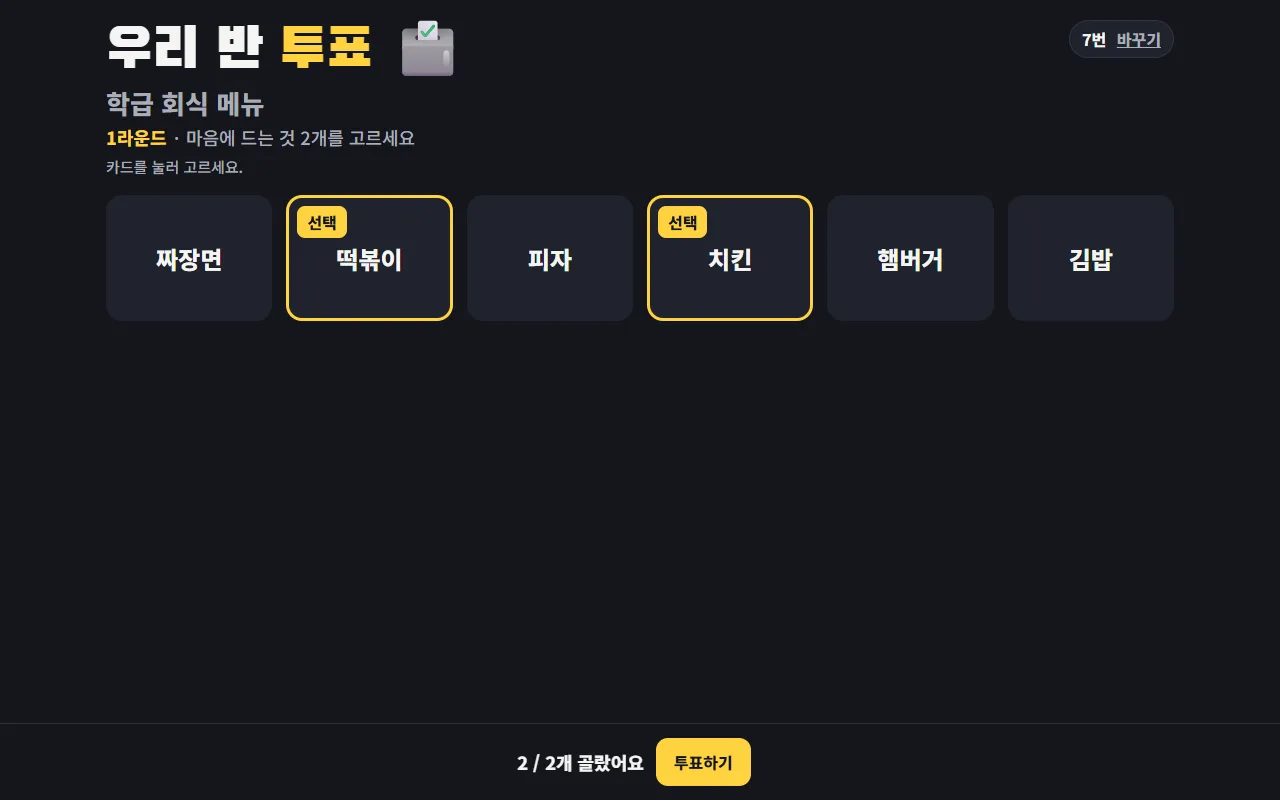
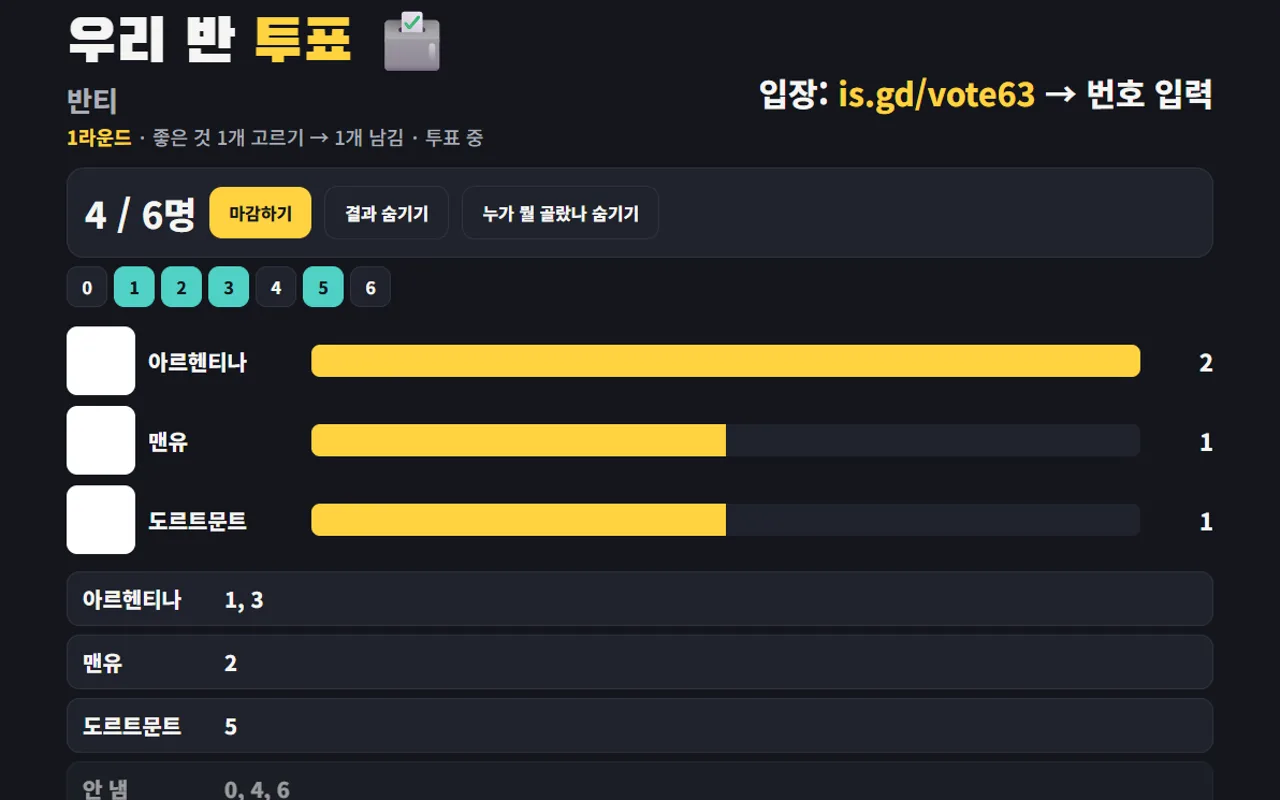
우리 반 투표: 교사 화면으로 링크·그림 교체

diff --git a/data.js b/data.js
@@ -110,13 +110,13 @@ window.SITE = {
       id: 'class-vote',
       name: '우리 반 투표',
       state: 'live',
-      desc: '아이들이 번호로 들어와 라운드마다 후보를 줄여 가며 고르는 반 투표. 표 수는 교사만 보고, 1등은 교사가 열어 줄 때 발표된다.',
+      desc: '아이들이 번호로 들어와 라운드마다 후보를 줄여 가며 고르는 반 투표. 교사 화면에서 라운드를 열고 닫고, 표 수와 번호별 선택을 보거나 숨긴다. 1등은 교사가 열어 줄 때 발표된다.',
       linked: '반티 고르기에 처음 사용 · 2026.11',
       tags: ['Cloudflare Workers', 'Durable Objects'],
-      url: 'https://class-vote.class-soccer.workers.dev',
-      meta: 'class-vote.workers.dev',
+      url: 'https://class-vote.class-soccer.workers.dev/teacher',
+      meta: 'class-vote.workers.dev/teacher',
       img: 'assets/class-vote.webp', imgW: 1280, imgH: 800,
-      alt: '우리 반 투표 학생 화면. 후보 카드 여섯 개 중 두 개를 고른 모습'
+      alt: '우리 반 투표 교사 화면. 1라운드 표 수 막대와 항목별로 고른 번호 목록'
     },
     {
       id: 'kkokko',
